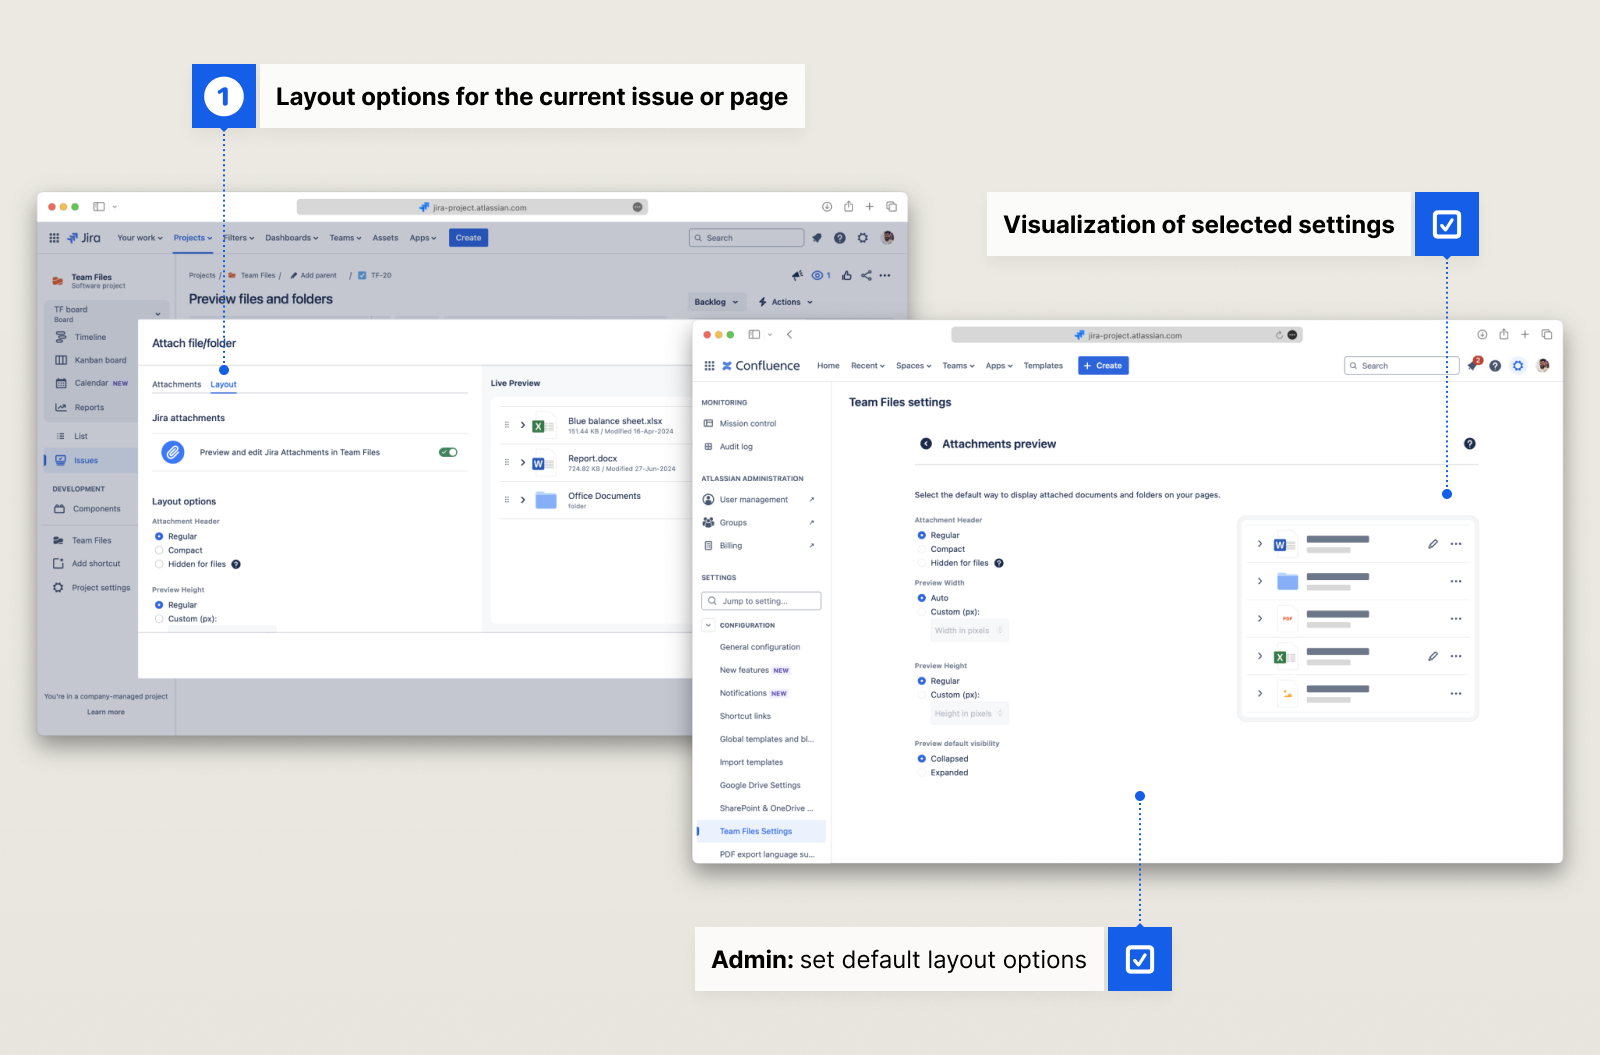
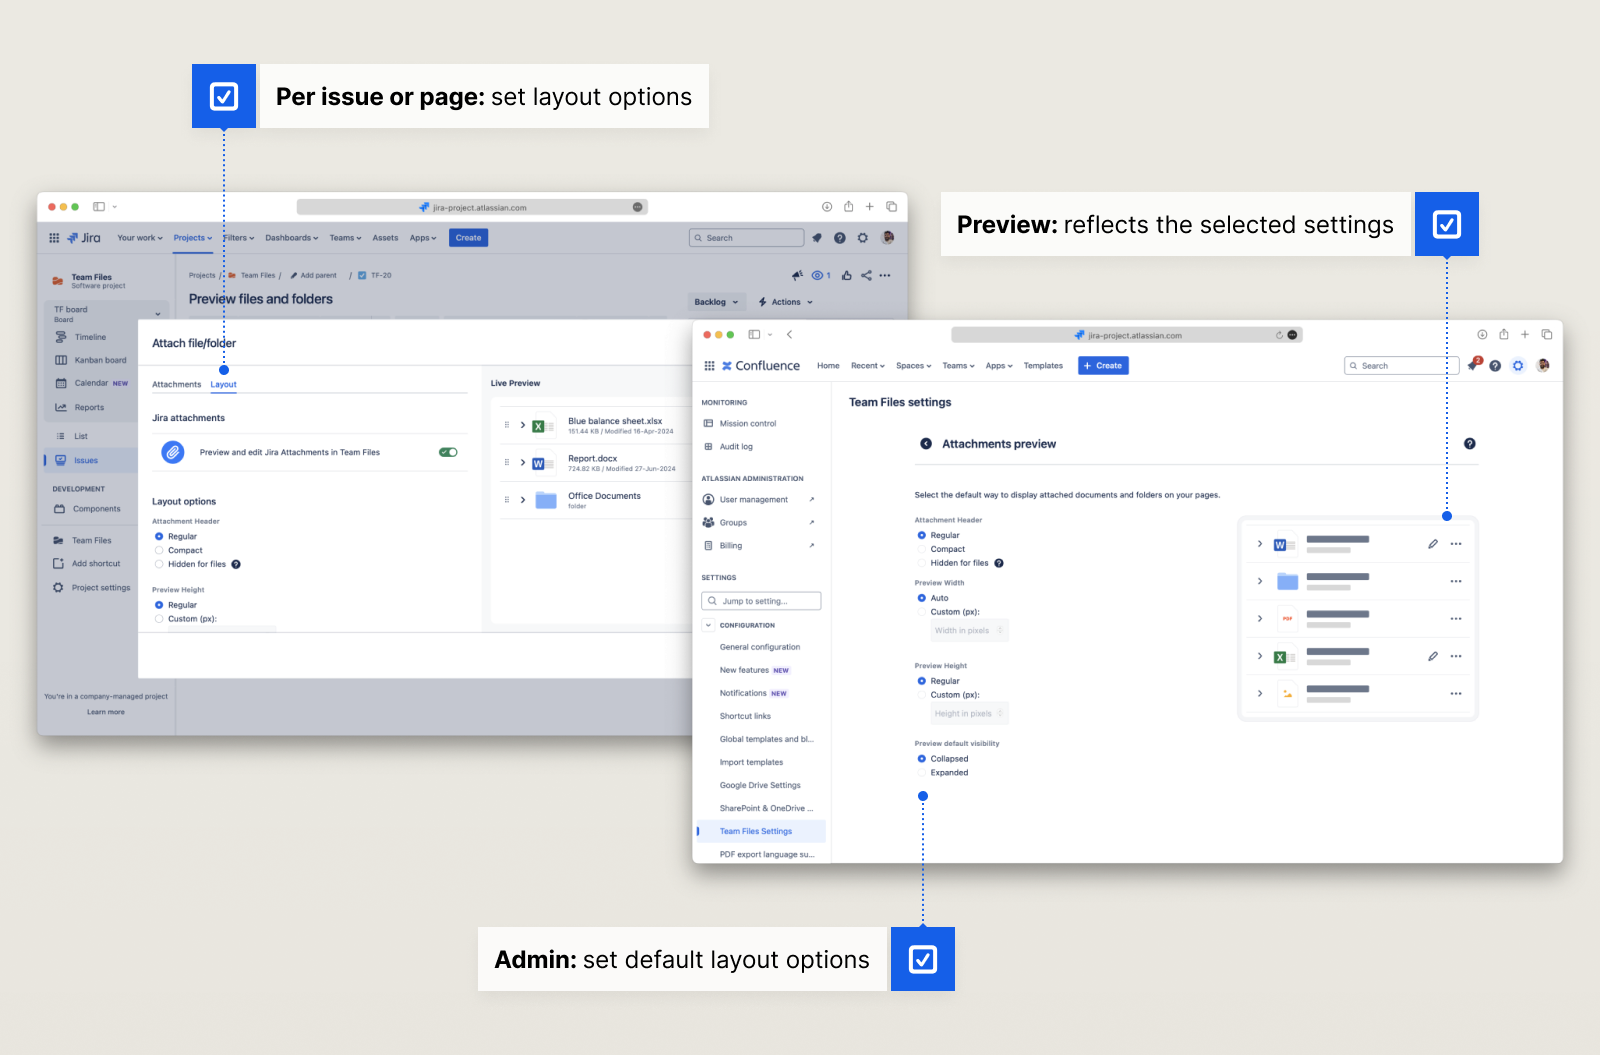
Team Files: re-export TF-04 layout and TF-08 design system figures
TF-04 callouts restyled (check icon, bold label with colon); TF-08 gains
a hand cursor on the hover row. Images only, alt and captions unchanged.
HANDOFF updated.

diff --git a/HANDOFF.md b/HANDOFF.md
@@ -2,6 +2,15 @@
 
 Last updated: 2026-10-02 (session 28)
 
+## What changed in this session (2026-10-02, session 28, continued: TF-04 and TF-08 re-exports)
+
+Images only, no copy or code changes. Second commit on branch **`copy/team-files-shared-auth`** (still unmerged and unpushed, so it was reused instead of a new branch).
+
+- **`TF-04-layout.png`** re-exported (1600×1055, node `4070:4559`), overwritten in place. Callouts restyled: all three now have the check icon and a bold label with a colon ("Per issue or page: set layout options", "Preview: reflects the selected settings", "Admin: set default layout options"). The numbered "1" marker and the all-bold "Visualization of selected settings" callout are gone. Alt and caption left as they were; neither mentions a numbered step or "visualization".
+- **`TF-08-design-system.png`** re-exported (1600×720, node `4178:3610`), overwritten in place. The mdx already imported this file. The change is a hand cursor on the hover row.
+- Build clean (8 pages, 0/0/0). Both figures render at the same size and position as before (718×473 and 718×323 in the 720px column at 1440).
+- **Dev cache gotcha:** `astro dev` serves `/_image` URLs with a one-year `max-age` and the URL doesn't change when a file is overwritten in place, so a browser that already loaded the page keeps showing the old image. Hard-reload (or use a fresh profile) to see a re-export locally. Production isn't affected: the built file names carry a content hash, and both changed.
+
 ## What changed in this session (2026-10-02, session 28, Team Files shared-folder authentication)
 
 Copy plus one new figure in [team-files.mdx](src/content/case-studies/team-files.mdx). On branch **`copy/team-files-shared-auth`** (off `main`), committed locally, **not merged or pushed**: Miguel reviews and pushes.
